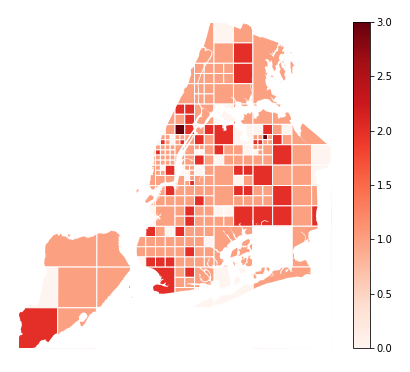
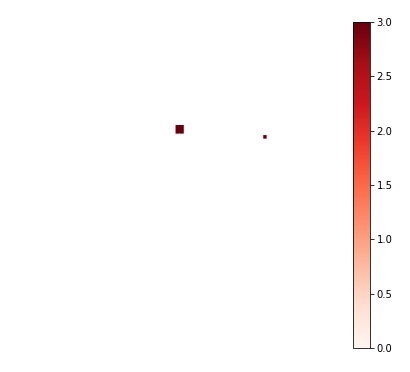
Quadtree implmnt.

Changed region(s): [[0.0293, 0.0591, 0.7902, 0.9462]]

diff --git a/geoplot/geoplot.py b/geoplot/geoplot.py
@@ -24,6 +24,9 @@ __version__ = "0.2.4"
 
 
 class HueMixin:
+    """
+    Class container for hue-setter code shared across all plots that support hue.
+    """
     def set_hue_values(self, color_kwarg='color', default_color='steelblue'):
         hue = self.kwargs.pop('hue', None)
         scheme = self.kwargs.pop('scheme', None)
@@ -32,15 +35,13 @@ class HueMixin:
 
         if color_kwarg in self.kwargs and hue is not None:
             raise ValueError(
-                f'Cannot specify both {color_kwarg} and cmap in the same plot.'
+                f'Cannot specify both "{color_kwarg}" and "cmap" in the same plot.'
             )
 
         hue = _to_geoseries(self.df, hue)
         if hue is None:  # no colormap
-            if color_kwarg in self.kwargs:
-                colors = [self.kwargs[color_kwarg]] * len(self.df)
-            else:
-                colors = [default_color] * len(self.df)
+            color = self.kwargs.pop(color_kwarg, default_color)
+            colors = [color] * len(self.df)
             categorical = False
             categories = None
             hue_values = None
@@ -59,7 +60,6 @@ class HueMixin:
                 )
                 colors = [cmap.to_rgba(v) for v in hue_values]
 
-        self.kwargs.pop(color_kwarg, None)
         self.colors = colors
         self.hue = hue
         self.scheme = scheme
@@ -71,6 +71,9 @@ class HueMixin:
 
 
 class ScaleMixin:
+    """
+    Class container for scale-setter code shared across all plots that support scale.
+    """
     def set_scale_values(self, size_kwarg=None, default_size=20, scale_multiplier=1):
         self.limits = self.kwargs.pop('limits', None)
         self.scale_func = self.kwargs.pop('scale_func', None)
@@ -108,6 +111,8 @@ class ScaleMixin:
 
             if hasattr(self, 'colors') and self.colors is not None:
                 self.colors = np.array(self.colors)[sorted_indices]
+            if hasattr(self, 'partitions') and self.partitions is not None:
+                raise NotImplementedError  # quadtree does not support scale param
 
         else:
             size = self.kwargs.pop(size_kwarg, default_size)
@@ -115,6 +120,9 @@ class ScaleMixin:
 
 
 class LegendMixin:
+    """
+    Class container for legend-builder code shared across all plots that support legend.
+    """
     def paint_legend(self, supports_hue=True, supports_scale=False):
         legend = self.kwargs.pop('legend', False)
 
@@ -145,22 +153,90 @@ class LegendMixin:
 
 
 class ClipMixin:
-    def paint_clip(self, clip=None):
+    """
+    Class container for clip-setter code shared across all plots that support clip.
+    """
+    def paint_clip(self):
+        clip = self.kwargs.pop('clip', None)
         clip = _to_geoseries(self.df, clip)
         if clip is not None:
             if self.projection is not None:
                 clip_geom = _get_clip(self.ax.get_extent(crs=ccrs.PlateCarree()), clip)
                 feature = ShapelyFeature([clip_geom], ccrs.PlateCarree())
-                self.ax.add_feature(feature, facecolor=(1,1,1), linewidth=0, zorder=100)
+                self.ax.add_feature(feature, facecolor=(1,1,1), linewidth=0, zorder=2)
             else:
                 clip_geom = _get_clip(self.ax.get_xlim() + self.ax.get_ylim(), clip)
                 xmin, xmax = self.ax.get_xlim()
                 ymin, ymax = self.ax.get_ylim()
                 extent = (xmin, ymin, xmax, ymax)
                 polyplot(
-                    gpd.GeoSeries(clip_geom), facecolor='white', linewidth=0, zorder=100,
+                    gpd.GeoSeries(clip_geom), facecolor='white', linewidth=0, zorder=2,
                     extent=extent, ax=self.ax
                 )
+
+
+class QuadtreeComputeMixin:
+    """
+    Class container for computing a quadtree.
+    """
+    def compute_quadtree(self):
+        nmin = self.kwargs.pop('nmin', None)
+        nmax = self.kwargs.pop('nmax', None)
+        hue = self.kwargs.get('hue', None)
+
+        df = gpd.GeoDataFrame(self.df, geometry=self.df.geometry)
+        hue = _to_geoseries(df, hue)
+        if hue is not None:
+            # TODO: what happens in the case of a column name collision?
+            df = df.assign(hue_col=hue)
+
+        # set reasonable defaults for the n-params
+        nmax = nmax if nmax else len(df)
+        nmin = nmin if nmin else np.max([1, np.round(len(df) / 100)]).astype(int)
+
+        # Jitter the points. Otherwise if there are n points sharing the same coordinate, but
+        # n_sig < n, the quadtree algorithm will recurse infinitely. Jitter is applied randomly
+        # on 10**-5 scale, inducing maximum additive inaccuracy of ~1cm - good enough for the
+        # vast majority of geospatial applications. If the meaningful precision of your dataset
+        # exceeds 1cm, jitter the points yourself.
+        df = df.assign(geometry=_jitter_points(df.geometry))
+
+        # Generate a quadtree.
+        quad = QuadTree(df)
+        partitions = quad.partition(nmin, nmax)
+        self.partitions = list(partitions)
+
+
+class QuadtreeHueMixin(HueMixin):
+    """
+    Subclass of HueMixin that provides modified hue-setting code for the quadtree plot.
+    """
+    def set_hue_values(self, color_kwarg, default_color):
+        agg = self.kwargs.pop('agg', np.mean)
+        _df = self.df
+        dvals = []
+
+        # construct a new df of aggregated values for the colormap op, reset afterwards
+        has_hue = 'hue' in self.kwargs and self.kwargs['hue'] is not None
+        for p in self.partitions:
+            if len(p.data) == 0:  # empty
+                dval = agg(pd.Series([0]))
+            elif has_hue:
+                dval = agg(p.data.hue_col)
+            dvals.append(dval)
+
+        if has_hue:
+            self.df = pd.DataFrame({
+                self.kwargs['hue']: dvals
+            })
+        super().set_hue_values(color_kwarg='facecolor', default_color='None')
+        self.df = _df
+
+        # apply the special nsig parameter colormap rule
+        nsig = self.kwargs.pop('nsig', 1)
+        for i, dval in enumerate(dvals):
+            if dval < nsig:
+                self.colors[i] = 'None'
 
 
 class Plot:
@@ -504,7 +580,7 @@ def polyplot(
                 return ax
 
             # Finally we draw the features.
-            if projection:
+            if self.projection:
                 for geom in self.df.geometry:
                     features = ShapelyFeature([geom], ccrs.PlateCarree())
                     ax.add_feature(
@@ -676,47 +752,45 @@ def choropleth(
     if hue is None:
         raise ValueError("No 'hue' specified.")
 
-    plot = Plot(
+    class ChoroplethPlot(Plot, HueMixin, LegendMixin):
+        def __init__(self, df, **kwargs):
+            super().__init__(df, **kwargs)
+            self.set_hue_values(color_kwarg=None, default_color=None)
+            self.paint_legend(supports_hue=True, supports_scale=False)
+
+        def draw(self):
+            ax = self.ax
+
+            if len(df.geometry) == 0:
+                return ax
+
+            if self.projection:
+                for color, geom in zip(self.colors, df.geometry):
+                    features = ShapelyFeature([geom], ccrs.PlateCarree())
+                    ax.add_feature(features, facecolor=color, **self.kwargs)
+            else:
+                for color, geom in zip(self.colors, df.geometry):
+                    try:  # Duck test for MultiPolygon.
+                        for subgeom in geom:
+                            feature = descartes.PolygonPatch(
+                                subgeom, facecolor=color, **self.kwargs
+                            )
+                            ax.add_patch(feature)
+                    except (TypeError, AssertionError):  # Shapely Polygon.
+                        feature = descartes.PolygonPatch(
+                            geom, facecolor=color, **self.kwargs
+                        )
+                        ax.add_patch(feature)
+
+            return ax
+
+    plot = ChoroplethPlot(
         df, figsize=figsize, ax=ax, extent=extent, projection=projection,
-        # metaparameters
-        has_hue_params=True, color_kwarg=None, default_color=None,
-        has_scale_params=False, has_legend=True,
-        # parameters
         hue=hue, scheme=scheme, k=k, cmap=cmap,
         legend=legend, legend_values=legend_values, legend_labels=legend_labels,
-        legend_kwargs=legend_kwargs,
-        **kwargs
+        legend_kwargs=legend_kwargs, **kwargs
     )
-    ax = plot.ax
-    projection = plot.projection
-    df = plot.df
-
-    if len(df.geometry) == 0:
-        return ax
-
-    # Add a legend, if appropriate.
-    if legend:
-        if k is not None:
-            _paint_hue_legend(ax, plot.categories, plot.cmap, legend_labels, legend_kwargs)
-        else:
-            _paint_colorbar_legend(ax, hue, cmap, legend_kwargs)
-
-    # Draw the features.
-    if projection:
-        for color, geom in zip(plot.colors, df.geometry):
-            features = ShapelyFeature([geom], ccrs.PlateCarree())
-            ax.add_feature(features, facecolor=color, **kwargs)
-    else:
-        for color, geom in zip(plot.colors, df.geometry):
-            try:  # Duck test for MultiPolygon.
-                for subgeom in geom:
-                    feature = descartes.PolygonPatch(subgeom, facecolor=color, **kwargs)
-                    ax.add_patch(feature)
-            except (TypeError, AssertionError):  # Shapely Polygon.
-                feature = descartes.PolygonPatch(geom, facecolor=color, **kwargs)
-                ax.add_patch(feature)
-
-    return ax
+    return plot.draw()
 
 
 def quadtree(
@@ -862,69 +936,44 @@ def quadtree(
 
     .. image:: ../figures/quadtree/quadtree-basemap.png
     """
-    # TODO: allow multindices in quadtree input
-    if isinstance(df.index, pd.MultiIndex):
-        raise NotImplementedError
+    class QuadtreePlot(Plot, QuadtreeComputeMixin, QuadtreeHueMixin, LegendMixin, ClipMixin):
+        def __init__(self, df, **kwargs):
+            super().__init__(df, **kwargs)
+            self.compute_quadtree()
+            self.set_hue_values(color_kwarg='facecolor', default_color='None')
+            self.paint_legend(supports_hue=True, supports_scale=False)
+            self.paint_clip()
 
-    plot = Plot(df, figsize=figsize, ax=ax, extent=extent, projection=projection)
-    ax = plot.ax
-    projection = plot.projection
+        def draw(self):
+            ax = self.ax
+            if len(self.df.geometry) == 0:
+                return ax
 
-    if len(df.geometry) == 0:
-        return ax
+            for p, color in zip(self.partitions, self.colors):
+                xmin, xmax, ymin, ymax = p.bounds
+                rect = shapely.geometry.Polygon(
+                    [(xmin, ymin), (xmin, ymax), (xmax, ymax), (xmax, ymin)]
+                )
 
-    # Up-convert input to a GeoDataFrame (necessary for quadtree comprehension).
-    df = gpd.GeoDataFrame(df, geometry=df.geometry)
-    hue = _to_geoseries(df, hue)
-    if hue is not None:
-        df = df.assign(hue_col=hue)
+                if projection:
+                    feature = ShapelyFeature([rect], ccrs.PlateCarree())
+                    ax.add_feature(
+                        feature, facecolor=color, **self.kwargs
+                    )
+                else:
+                    feature = descartes.PolygonPatch(
+                        rect, facecolor=color, **self.kwargs
+                    )
+                    ax.add_patch(feature)
 
-    # Set reasonable defaults for the n-params if appropriate.
-    nmax = nmax if nmax else len(df)
-    nmin = nmin if nmin else np.max([1, np.round(len(df) / 100)]).astype(int)
+            return ax
 
-    # Jitter the points. Otherwise if there are n points sharing the same coordinate, but
-    # n_sig < n, the quadtree algorithm will recurse infinitely. Jitter is applied randomly on
-    # 10**-5 scale, inducing maximum additive inaccuracy of ~1cm - good enough for the vast
-    # majority of geospatial applications. If the meaningful precision of your dataset exceeds 1cm,
-    # jitter the points yourself.
-    df = df.assign(geometry=_jitter_points(df.geometry))
-
-    # Generate a quadtree.
-    quad = QuadTree(df)
-    partitions = list(quad.partition(nmin, nmax))
-
-    # Set color information, if necessary
-    if hue is not None:
-        values = [agg(p.data.hue_col) for p in partitions if p.n > nsig]
-        cmap = _continuous_colormap(values, cmap)
-    edgecolor = kwargs.pop('edgecolor', 'black')
-    flat_facecolor = kwargs.pop('facecolor', 'None')  # only used if hue is None
-
-    for p in partitions:
-        xmin, xmax, ymin, ymax = p.bounds
-        rect = shapely.geometry.Polygon([(xmin, ymin), (xmin, ymax), (xmax, ymax), (xmax, ymin)])
-
-        if hue is not None:
-            facecolor = cmap.to_rgba(agg(p.data.hue_col)) if p.n > nsig else "None"
-        else:
-            facecolor = flat_facecolor
-        if projection:
-            feature = ShapelyFeature([rect], ccrs.PlateCarree())
-            ax.add_feature(feature, facecolor=facecolor, edgecolor=edgecolor, **kwargs)
-
-        else:
-            feature = descartes.PolygonPatch(
-                rect, facecolor=facecolor, edgecolor=edgecolor, **kwargs
-            )
-            ax.add_patch(feature)
-
-    if hue is not None and legend:
-        _paint_colorbar_legend(ax, values, cmap, legend_kwargs)
-
-    plot.paint_clip(clip)
-
-    return ax
+    plot = QuadtreePlot(
+        df, projection=projection, clip=clip, hue=hue, cmap=cmap, nmax=nmax, nmin=nmin, nsig=nsig,
+        agg=agg, legend=legend, legend_kwargs=legend_kwargs, extent=extent, figsize=figsize, ax=ax,
+        **kwargs
+    )
+    return plot.draw()
 
 
 def cartogram(
